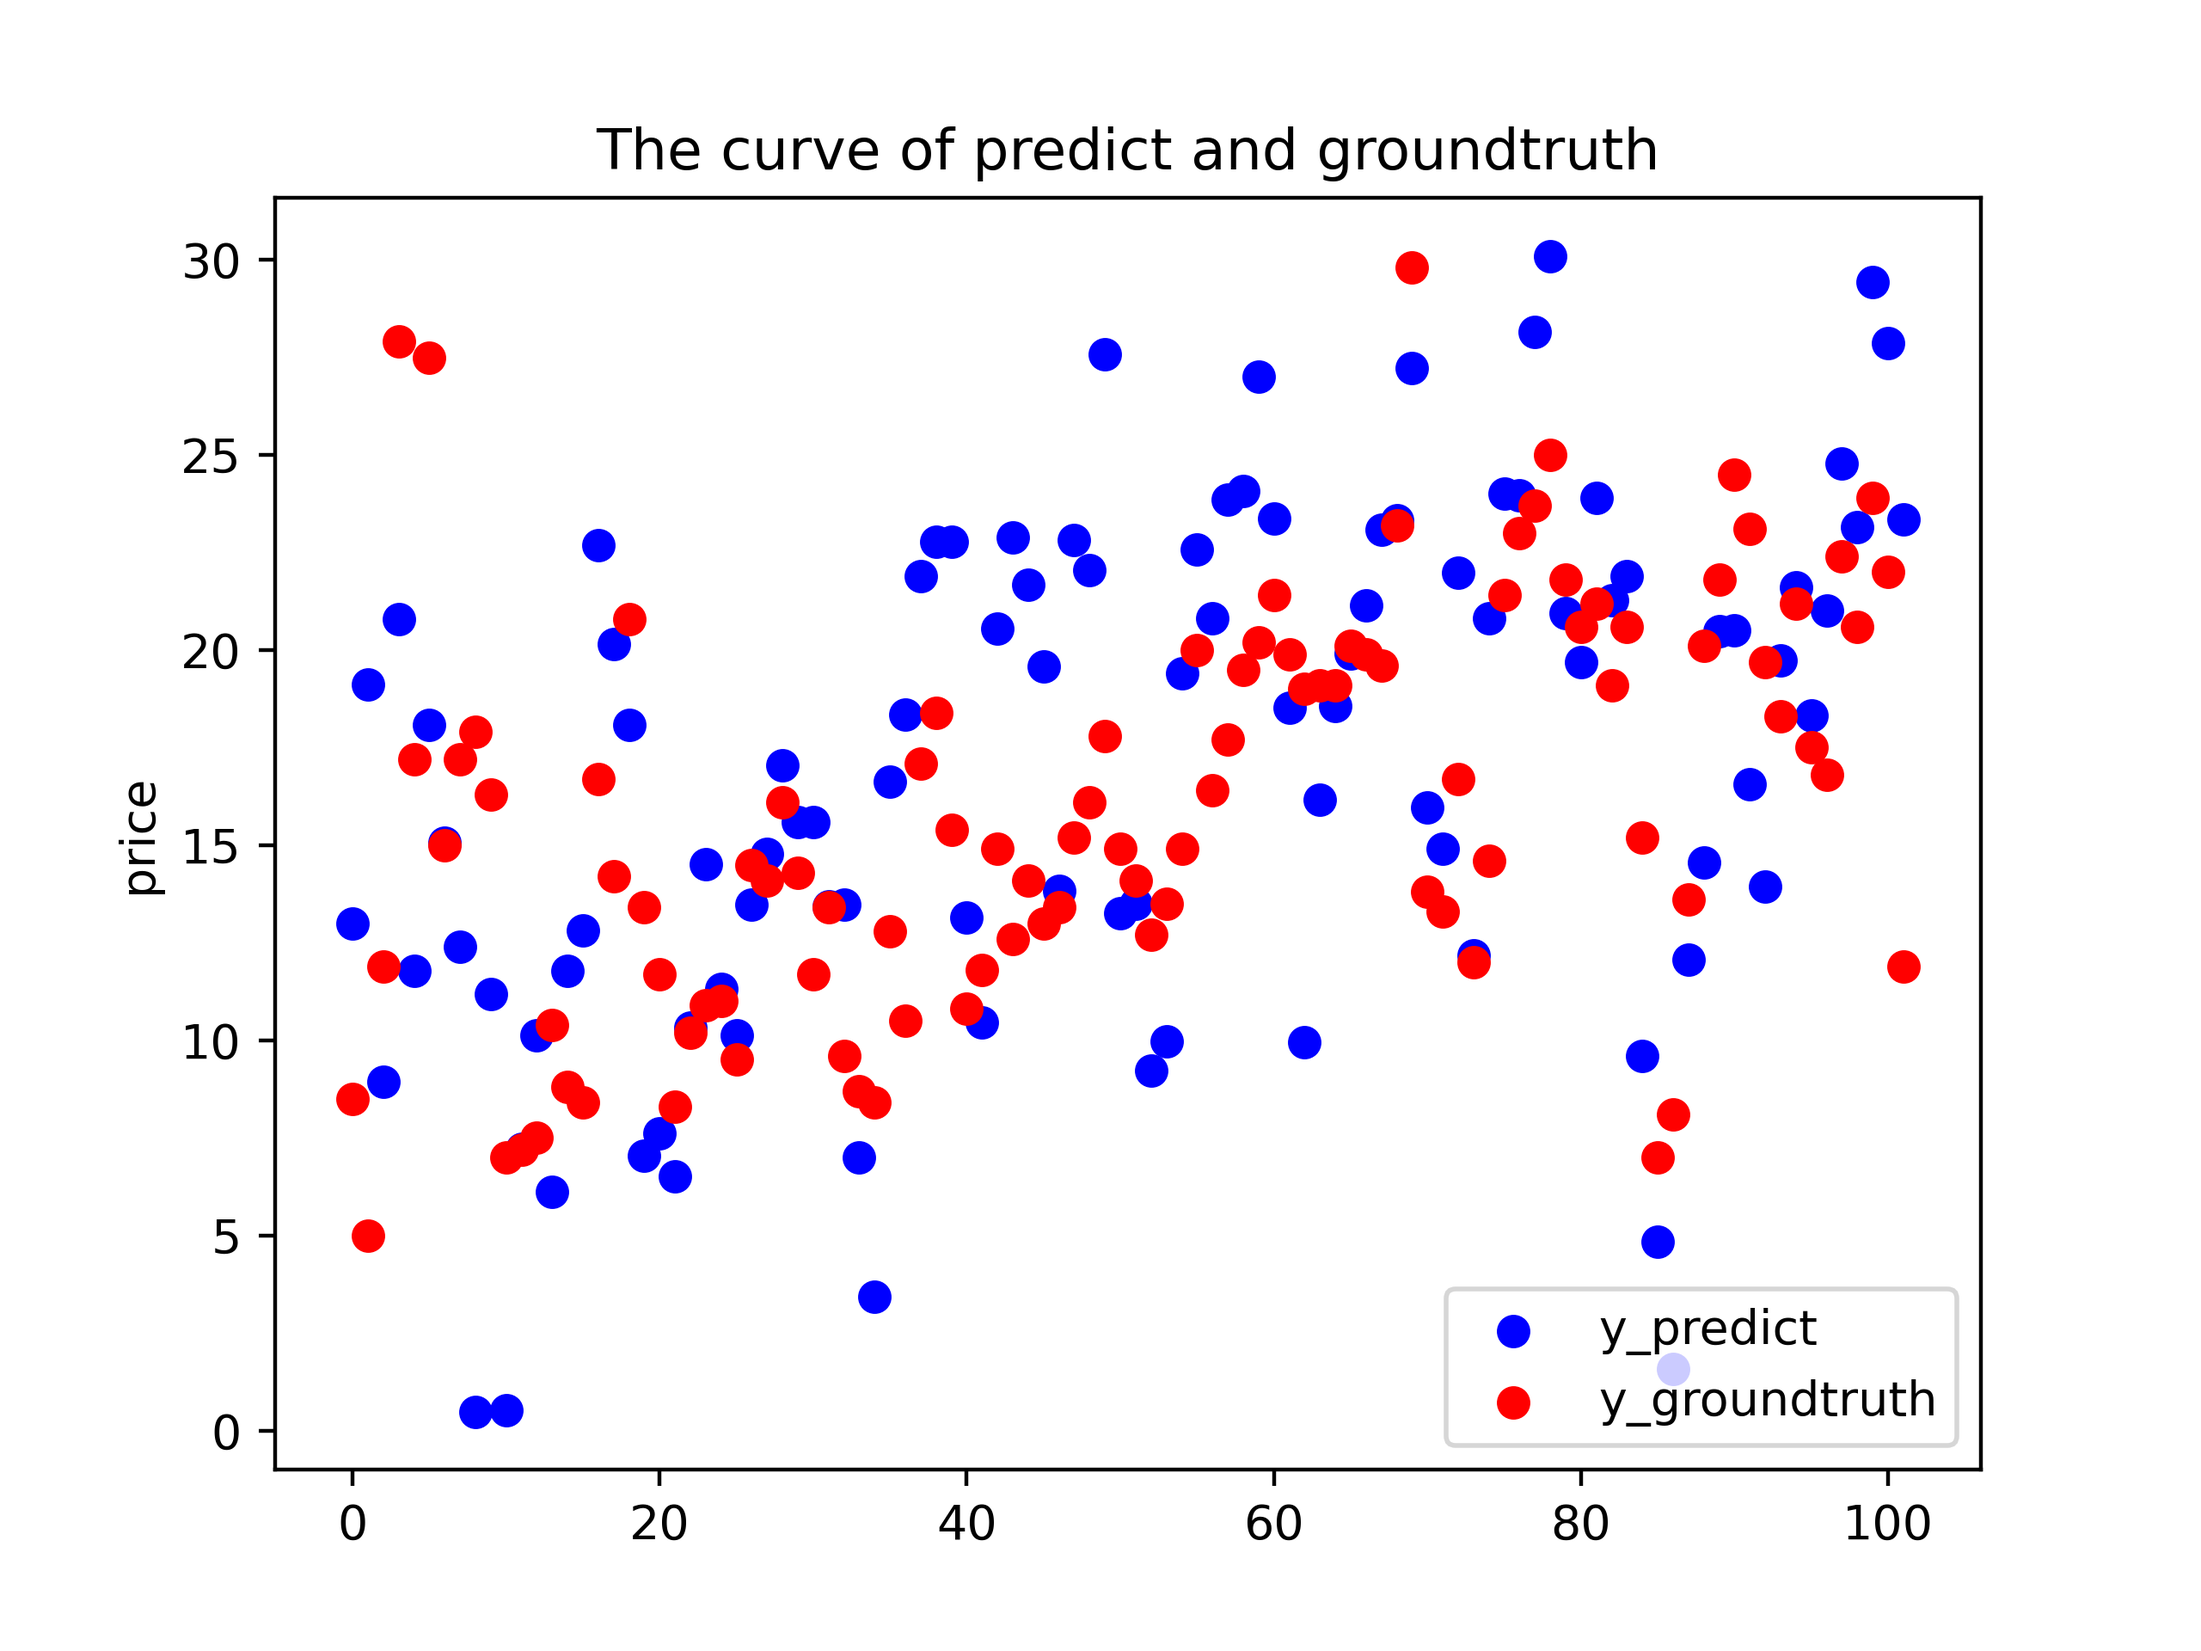
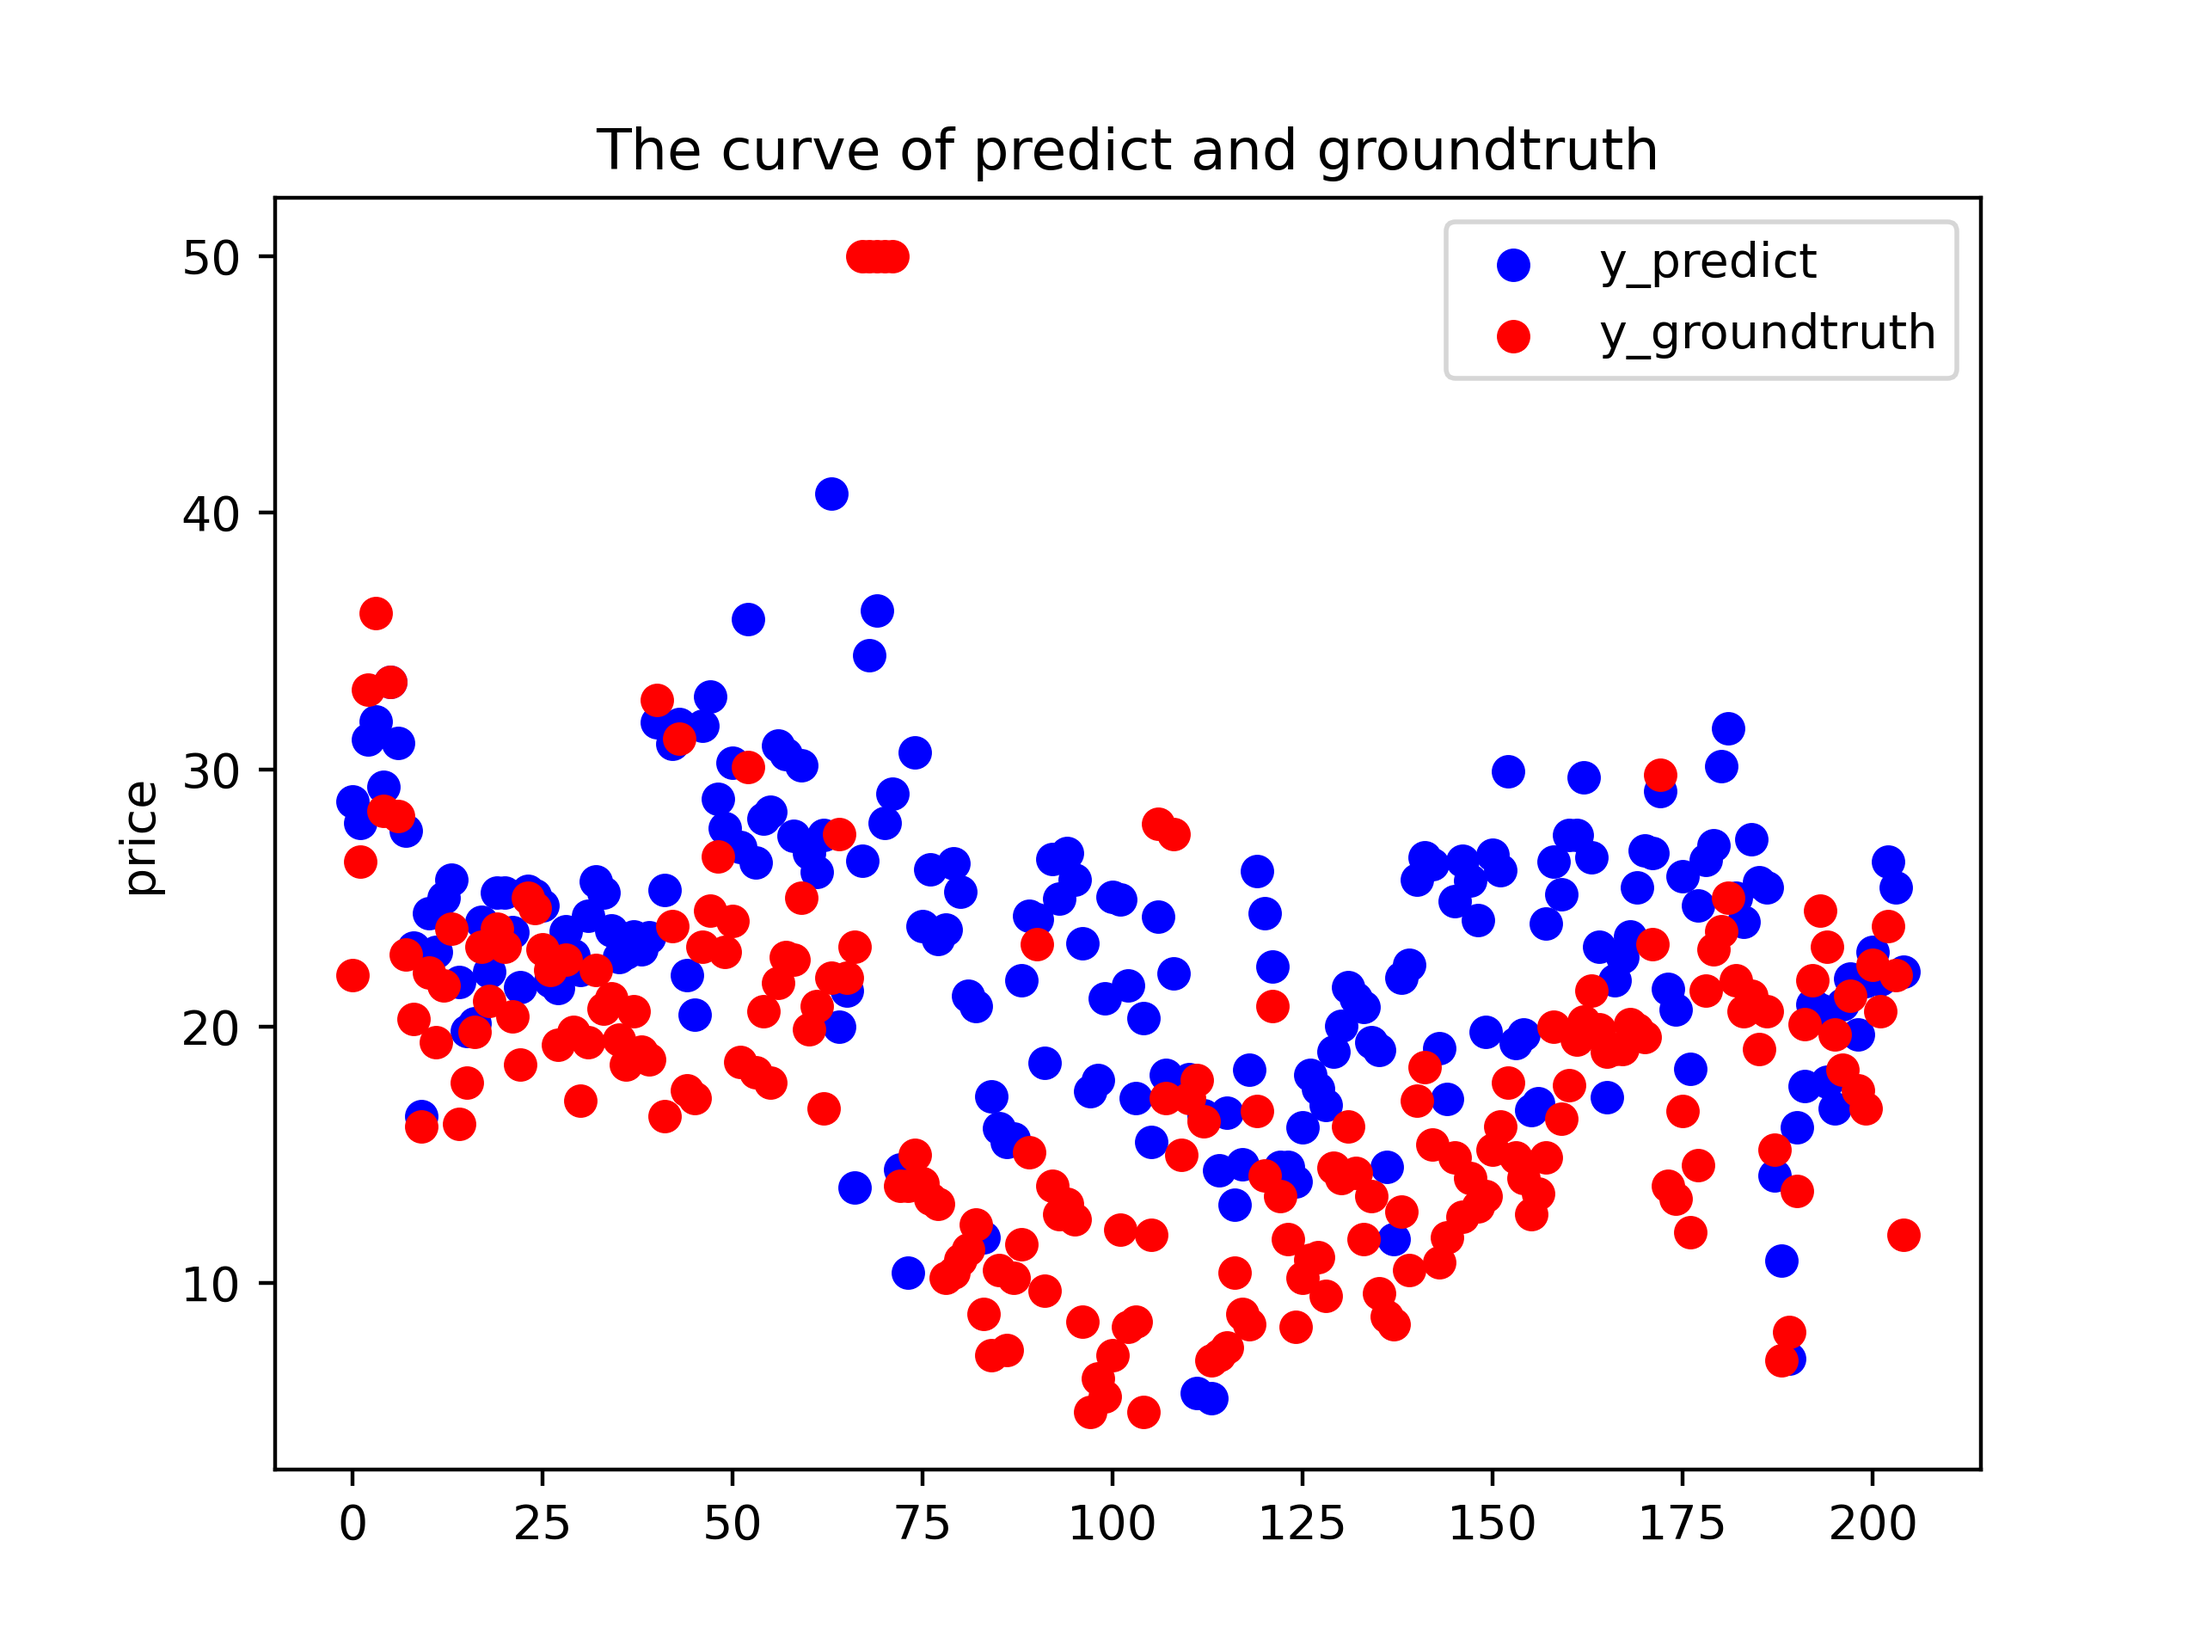
project1 update

diff --git a/project1/项目1波士顿房价.py b/project1/项目1波士顿房价.py
@@ -66,9 +66,9 @@ torch.save(models, 'ModelTest.pt')
 
 # 读取训练好的模型
 model = torch.load('ModelTest.pt')
-x_test = torch.from_numpy(data[404:])
+x_test = torch.from_numpy(data[301:])
 x_test = x_test.type(torch.float32)
-y_test = torch.from_numpy(target[404:])
+y_test = torch.from_numpy(target[301:])
 y_test = y_test.type(torch.float32)
 models.eval()
 
